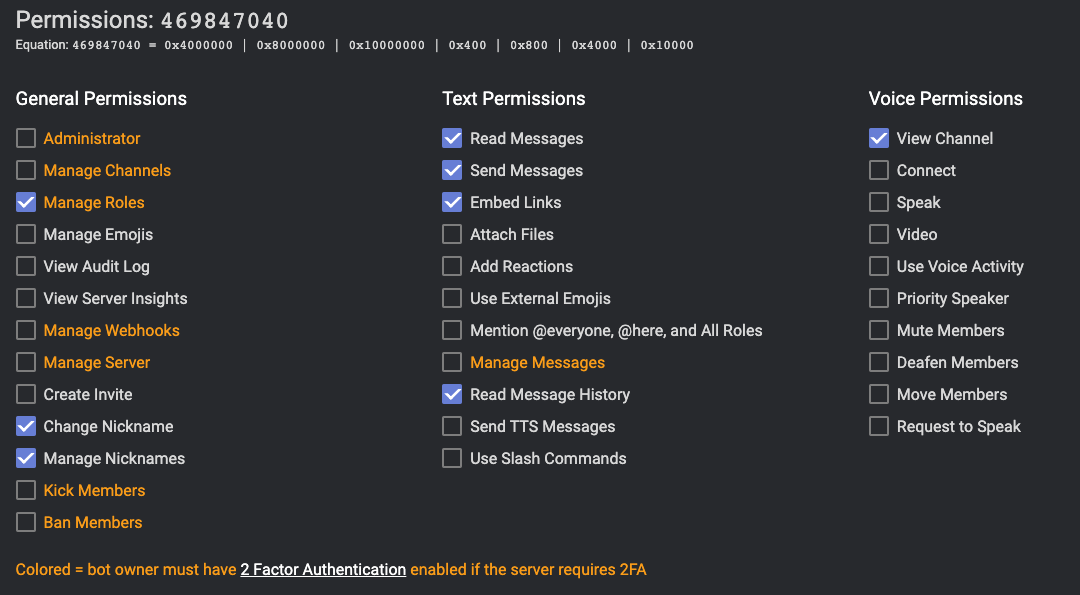
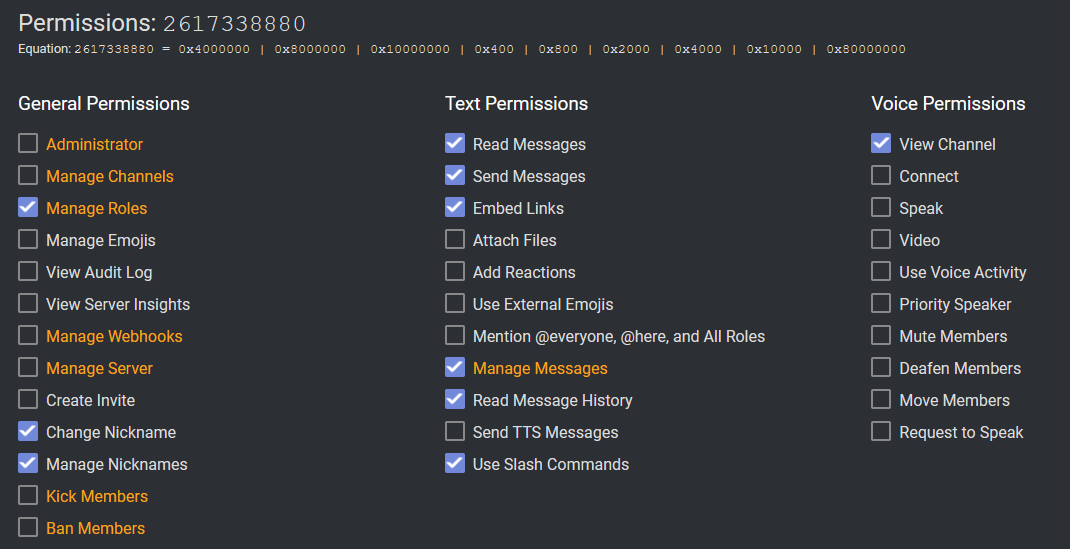
Creación de tablas sqlite, falta parametrizar

diff --git a/main.py b/main.py
@@ -22,6 +22,40 @@ async def on_ready():
     # Mensaje mostrando que está iniciado
     print('Logged in as {0.user}'.format(bot))
 
+@bot.command(pass_context=True)
+# Check if have admin perms
+@commands.has_permissions(administrator=True)
+async def setup(ctx, botPrefix, guildID, allianceID):
+
+    # Guardar la ID de la guild
+    DiscordGuildID = ctx.message.guild.id
+    table_users = "{}user".format(DiscordGuildID)
+    table_config = "{}config".format(DiscordGuildID)
+
+    # Conectar a la base de datos, se creará si no existe
+    con = sqlite3.connect('example.db')
+
+    # Create cursor
+    cur = con.cursor()
+
+    # Crear tabla de la configuración de la guild
+    # cur.execute(f"""CREATE TABLE IF NOT EXISTS {table_config} (botPrefix text, guildId text, allianceId text)""")
+    cur.execute(f"""CREATE TABLE IF NOT EXISTS config (botPrefix text, guildId text, allianceId text)""")
+
+    # Insertar datos en la tabla
+    # cur.execute(f"""insert into {table_config} (botPrefix, guildId, allianceId) values (?, ?, ?)""", (botPrefix, guildID, allianceID))
+    cur.execute(f"""insert into config (botPrefix, guildId, allianceId) values (?, ?, ?)""", (botPrefix, guildID, allianceID))
+
+    # Crear tabla de usuarios registrados de la guild
+    # cur.execute(f"""CREATE TABLE IF NOT EXISTS {table_users} (userid text, albionnick text)""")
+    cur.execute(f"""CREATE TABLE IF NOT EXISTS user (userid text, albionnick text)""")
+    
+    # Guardar cambios
+    con.commit()
+
+    # Cerrar conexión
+    con.close()
+
 # !register ARGUMENTO
 @bot.command()
 async def register(ctx, arg):

diff --git a/README.md b/README.md
@@ -20,7 +20,7 @@ Those will be the permissions that the bot will have
 
 ### Link
 
-<https://discord.com/oauth2/authorize?client_id=CLIENT_ID_HERE&scope=bot&permissions=469847040>
+<https://discord.com/oauth2/authorize?client_id=INSERT_CLIENT_ID_HERE&scope=bot&permissions=2617338880>
 
 ## Executing the bot
 
